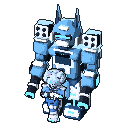
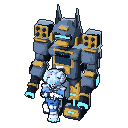
Mecha: retrato na paleta nova e 1,25x no santuário
Pedido do Alisson ao testar o PR: o retrato da tela Personagens ainda
estava azul e o mecha continuava grande demais no santuário (1,5x).

Claude-Session: https://claude.ai/code/session_019UDbB6VLgcXyWCBxm8uMG6

diff --git a/LOGBOOK.md b/LOGBOOK.md
@@ -3412,3 +3412,5 @@ Para liberar o NVMe, apaguei tudo em `C:\Dev\KIKIU` menos `KIKIU-Survival`, `.cl
 - 14/11/2026: a pedido do Alisson ("mandar tudo o que não for arquivo grande para o GitHub", só o técnico e útil, porque o repositório é público), entrou a pasta `notas/` com a fila do Godot (`godot_fila.ps1`), o atalho da Maré do Nicão, os dois rascunhos do guia de arte e as referências do ChatGPT A06 a A25 (16 MB, só referência, não assets). O `notas/LEIA-ME.md` diz o que é cada coisa e o que ficou só no notebook. Claude do Alisson (notebook)
 
 - 15/11/2026: paleta nova do mecha do LightWolf, "aço carvão e latão", escolhida pelo Alisson entre duas propostas (ele achou que o mecha destoava do Hazaki e do Nicão). Medido nas folhas: o mecha tinha claridade mediana de 55% (Hazaki 22%, Nicão 35%), 42% de área muito clara (5% e 2%) e 0% de cor quente (28% e 18%); saturação e contorno já batiam. **Feito:** troca cor por cor na `prototipos/cara_nova/sprites/lightwolf_mecha_albedo.png` e na `lightwolf_mecha_final_albedo.png` (script `fonte_arte/blender_herois/lightwolf_mecha/recolorir_paleta.py`), bases novas no `modelo.py` e luz de recorte no `gerar.py`. Alfa e normal idênticos, 28 cores, o clarão do tiro (`#f2ffff`) continua branco. **Não visto:** nada rodou no Godot (thread na nuvem), nem testes nem partida com luz; o render no Blender com a PALETA nova não foi refeito. **Pendente:** ver na partida e mostrar ao Isac antes do merge; retrato de 128 (`assets/personagens/lightwolf/retrato_dupla_128.png`), ícones de habilidade e efeitos do mecha continuam no azul antigo. PR em rascunho, merge só com o ok visual do Alisson. Claude do Alisson (nuvem)
+
+- 15/11/2026 (2): o Alisson testou o PR #635 pelo atalho "KIKIU (PR 635 mecha)" (worktree `C:\Dev\KIKIU\wt-pr635` no notebook) e pediu dois ajustes. **Retrato:** o `assets/personagens/lightwolf/retrato_dupla_128.png` (tela Personagens) ainda estava azul; o mecha dele foi para a paleta nova por troca de cor, incluindo o contorno e a luz de recorte do `estilo2d.py`, e o lobo ficou como era (72 px dele que a troca pegou foram devolvidos). O `fonte_arte/blender_herois/lightwolf_retrato/gerar.py` não foi rodado; um render novo sai com a PALETA nova do mecha. **Santuário:** o mecha saía em 1,5x e continuava grande demais para a sala; `ESCALA_FOLHA_GRANDE` do `v2/salao.gd` foi para 1,25 (corpo de 91 px, humanos em 80 px). **Não visto:** nada rodou no Godot aqui; os ícones de habilidade do LightWolf (energia ciano) ficaram como estão. A tela de dificuldade "poluída" e a tela de carregamento, do mesmo recado, estão em outra frente. Claude do Alisson (nuvem)
